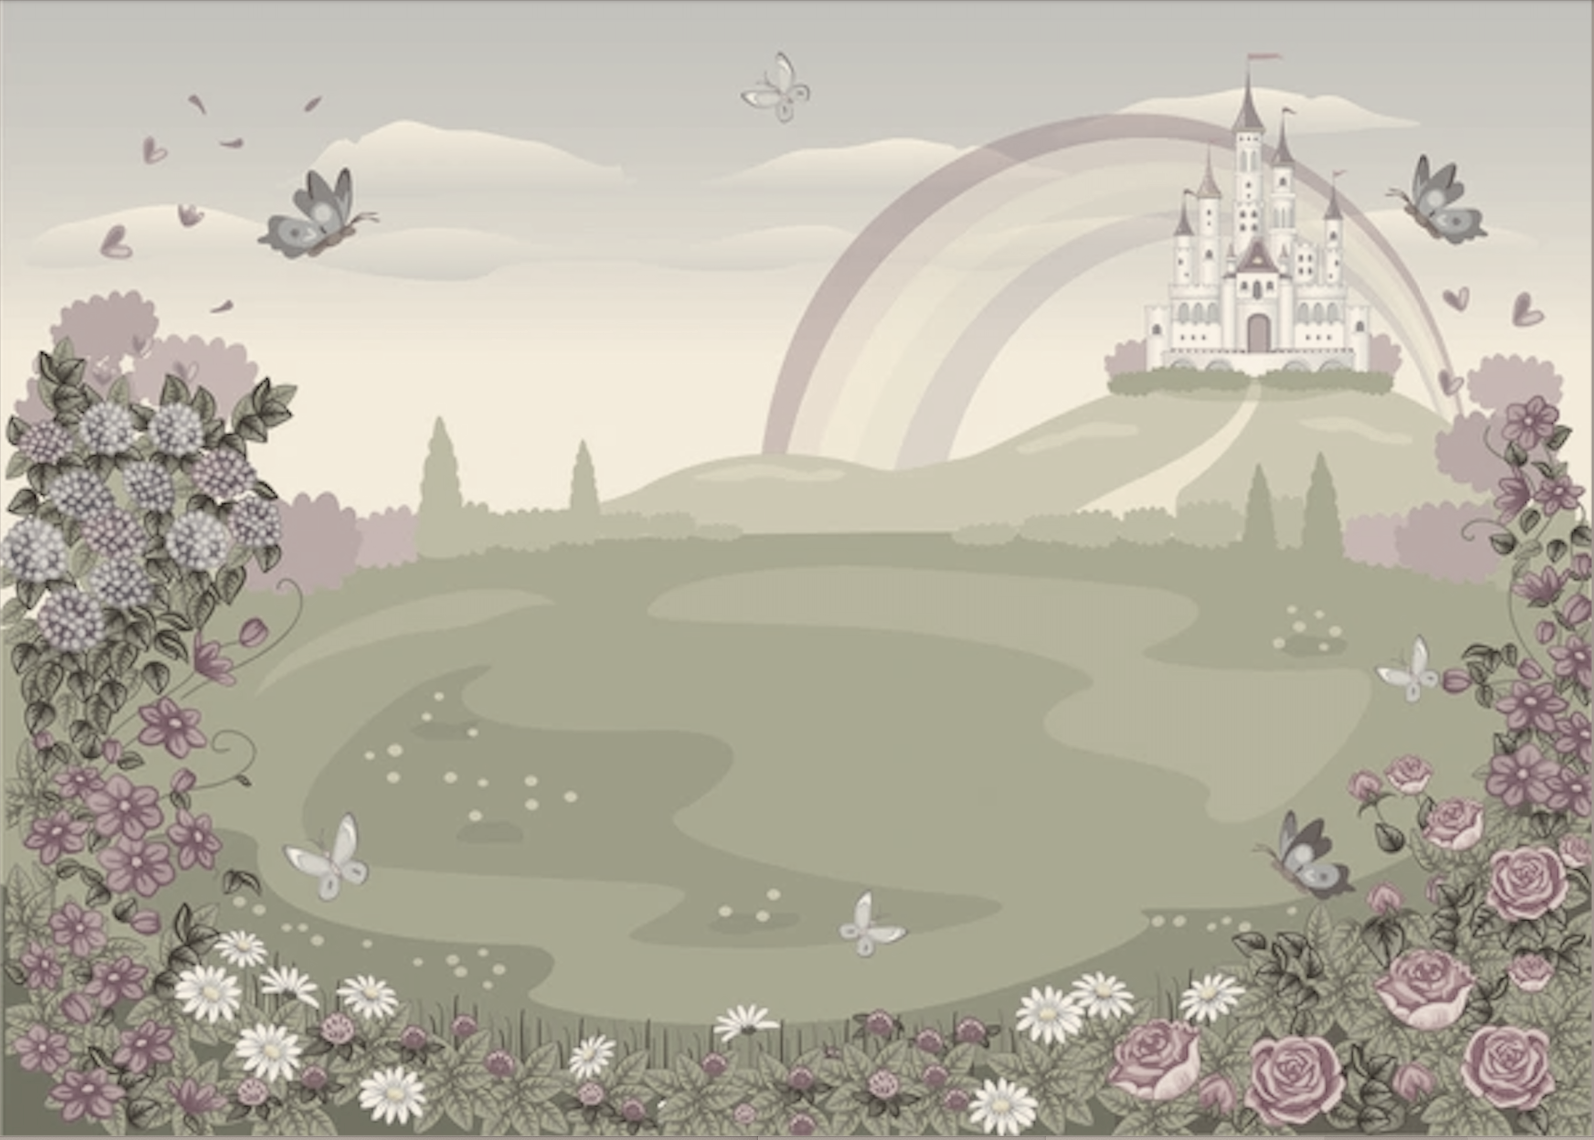
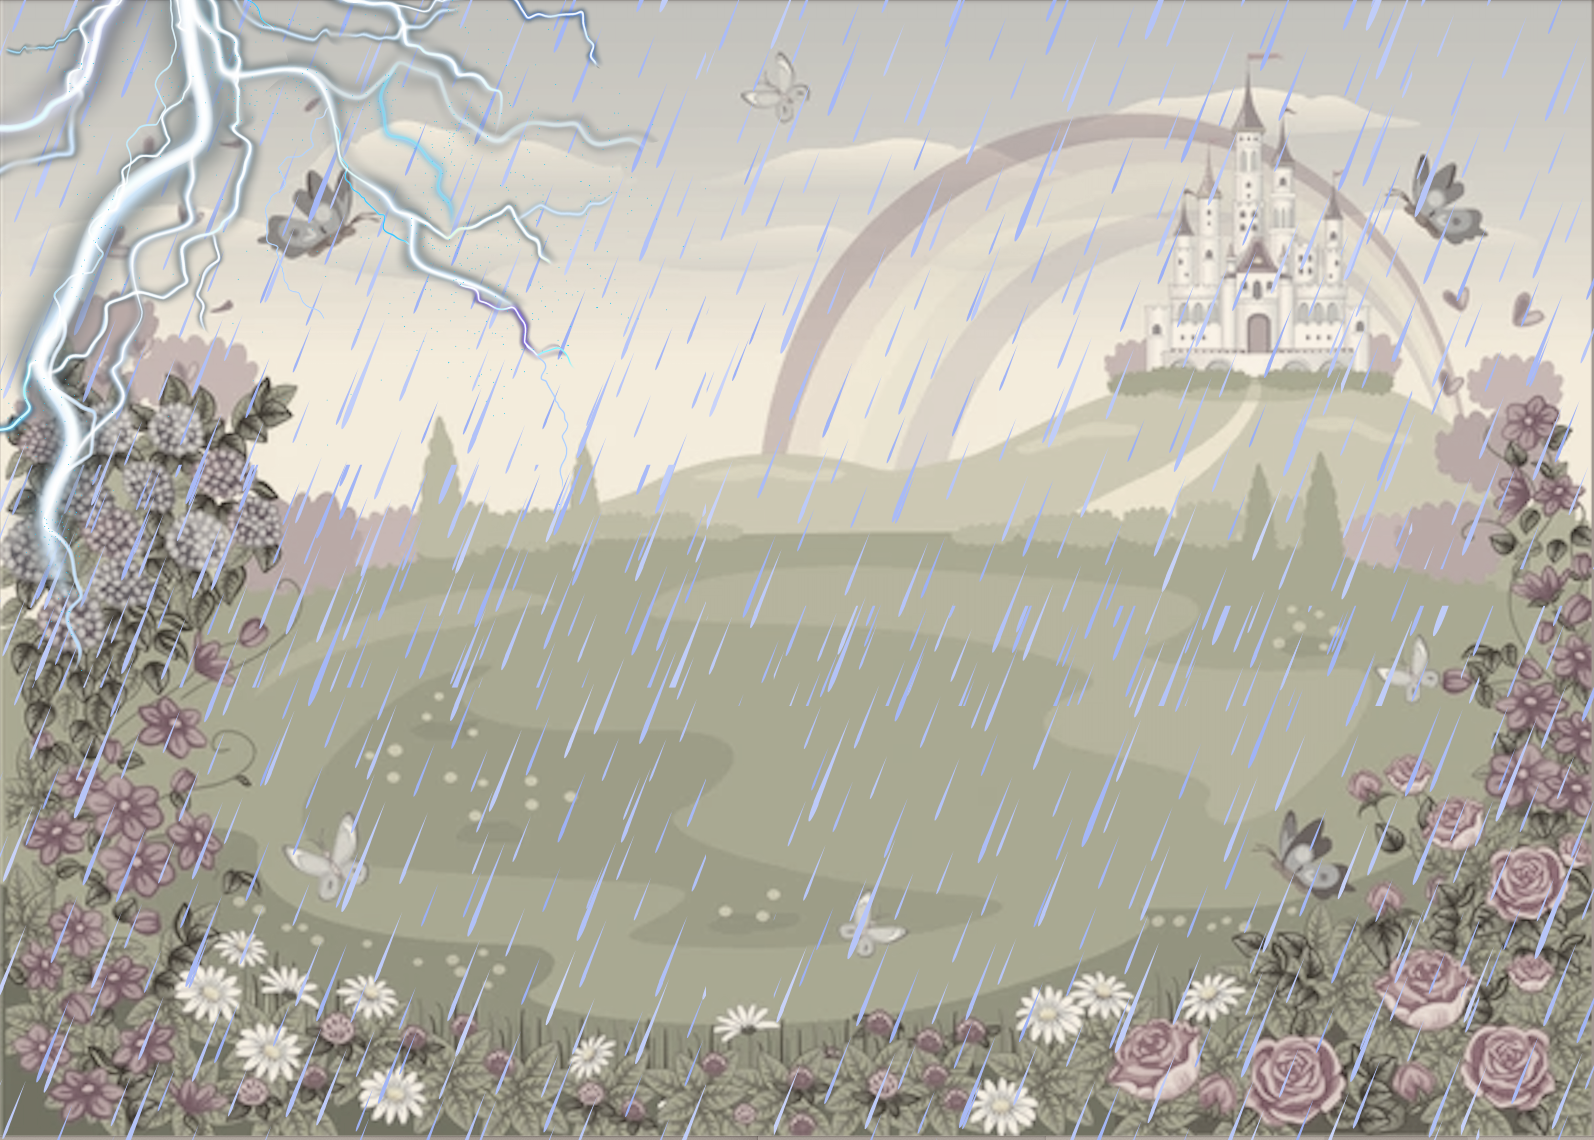
completed scene 3

diff --git a/Rainybara.java b/Rainybara.java
@@ -1,0 +1,39 @@
+import greenfoot.*;  // (World, Actor, GreenfootImage, Greenfoot and MouseInfo)
+
+/**
+ * Write a description of class Kingbara here.
+ * 
+ * @author (your name) 
+ * @version (a version number or a date)
+ */
+public class Rainybara extends Actor
+{
+    GreenfootImage[] rainybara = new GreenfootImage[8];
+    
+    SimpleTimer animationTimer = new SimpleTimer();
+    
+    public Rainybara() {
+        for(int i = 0; i<rainybara.length; i++){
+            rainybara[i] = new GreenfootImage("images/rainybara/frame_"+i+"_delay-0.1s.gif");
+            rainybara[i].scale(150, 150);
+        }
+        
+        setImage(rainybara[0]);
+    }
+    
+    int rainybaraIndex = 0;
+    // narration
+    public void rainybara () {
+        if(animationTimer.millisElapsed() < 100){
+            return;
+        }
+        animationTimer.mark();
+        setImage(rainybara[rainybaraIndex]);
+        rainybaraIndex = (rainybaraIndex + 1) % rainybara.length;
+    }
+    
+    public void act()
+    {
+        // Add your action code here.
+    }
+}

diff --git a/Scene4.java b/Scene4.java
@@ -6,7 +6,7 @@ import greenfoot.*;  // (World, Actor, GreenfootImage, Greenfoot and MouseInfo)
  * @author (your name) 
  * @version (a version number or a date)
  */
-public class Scene3 extends MainWorld
+public class Scene4 extends MainWorld
 {
     private Rainybara rainybara;
     private Birdie birdie;
@@ -21,7 +21,7 @@ public class Scene3 extends MainWorld
     
     SimpleTimer animationTimer = new SimpleTimer();
     
-    public Scene3()
+    public Scene4()
     {
         super(680, 520, 1);
         GreenfootImage gardenBg = new GreenfootImage("images/garden2.png");
